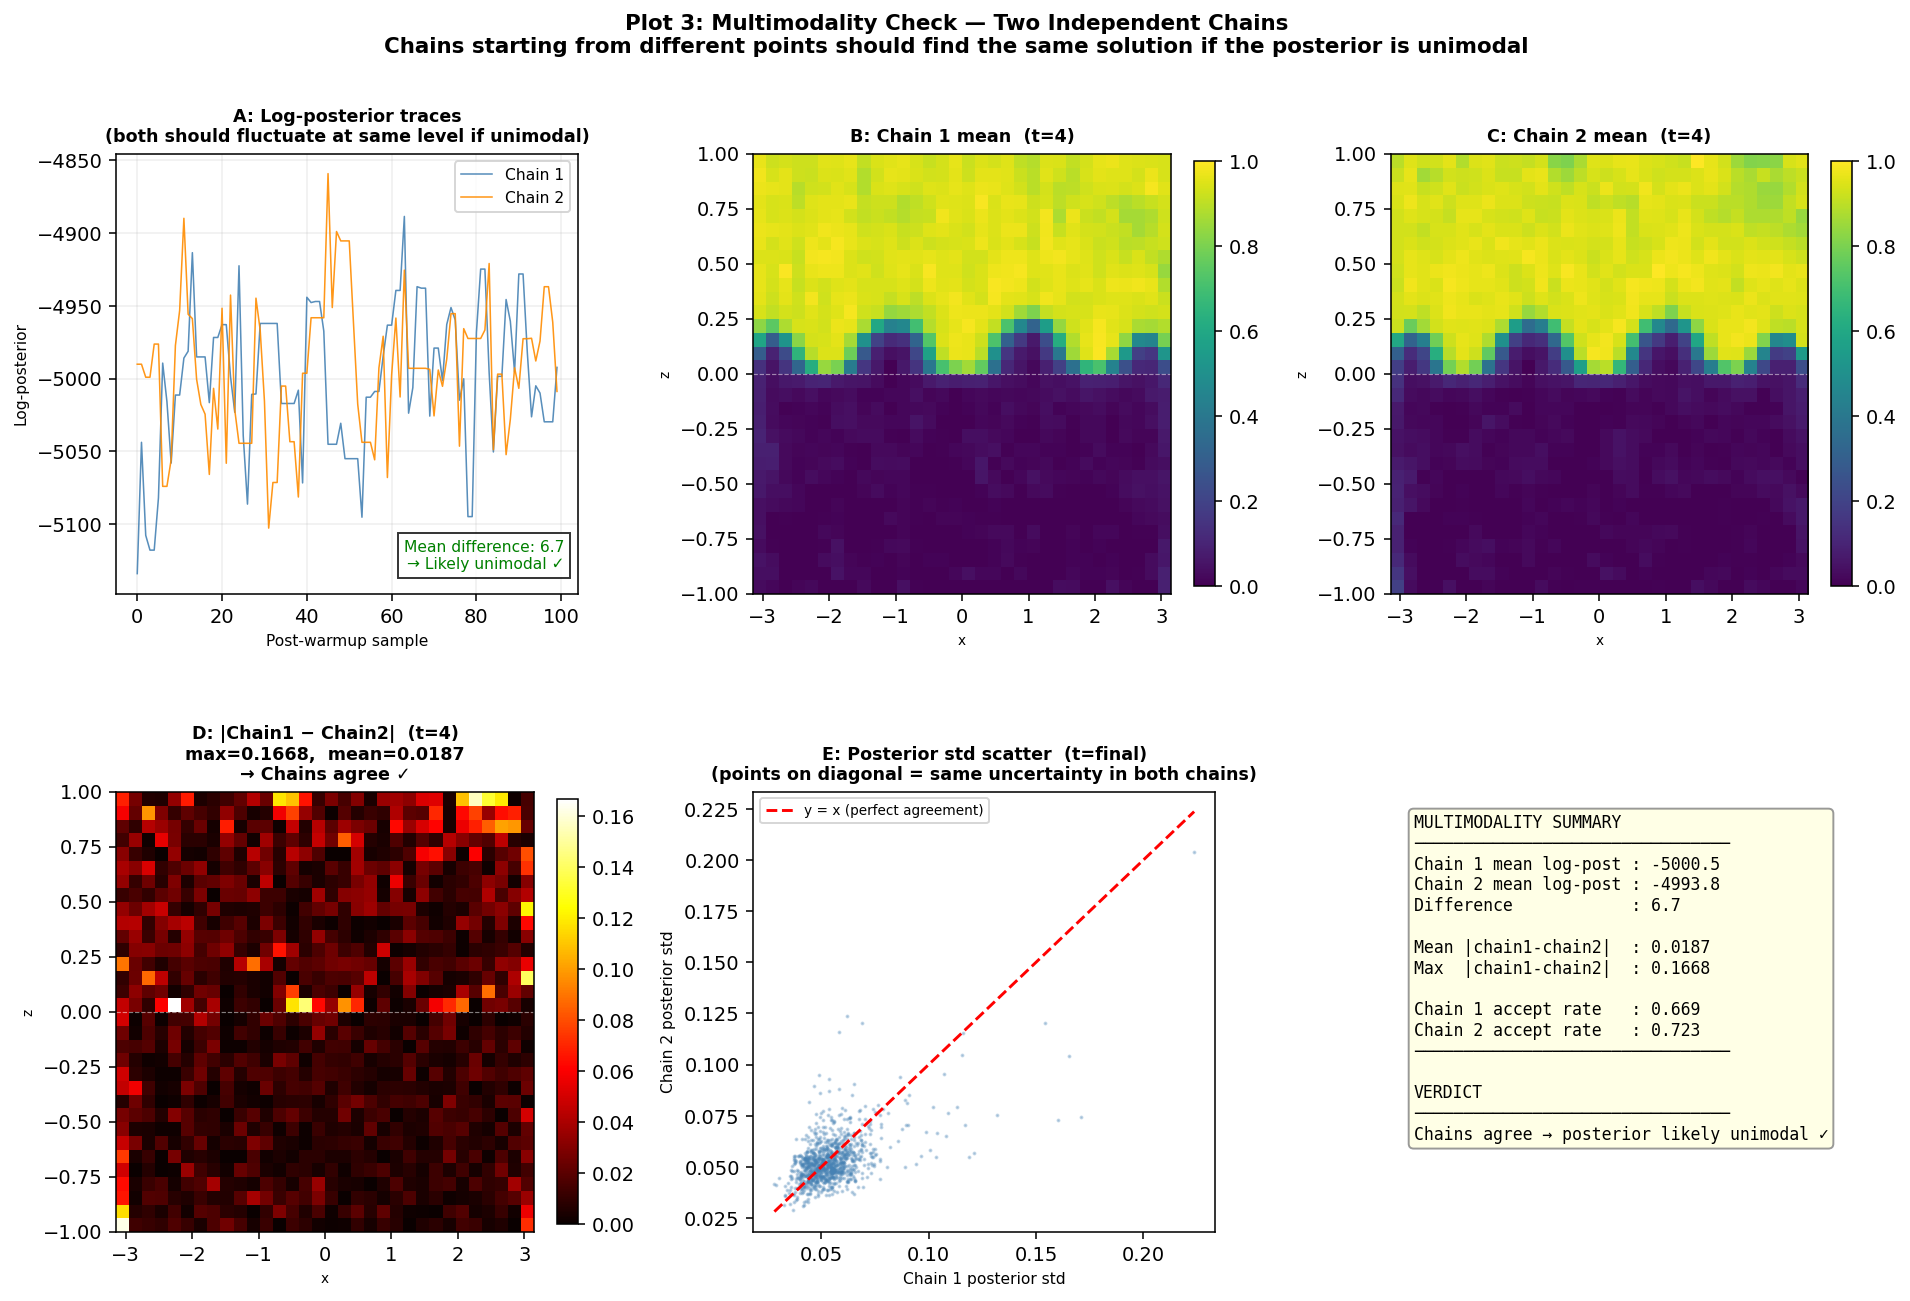
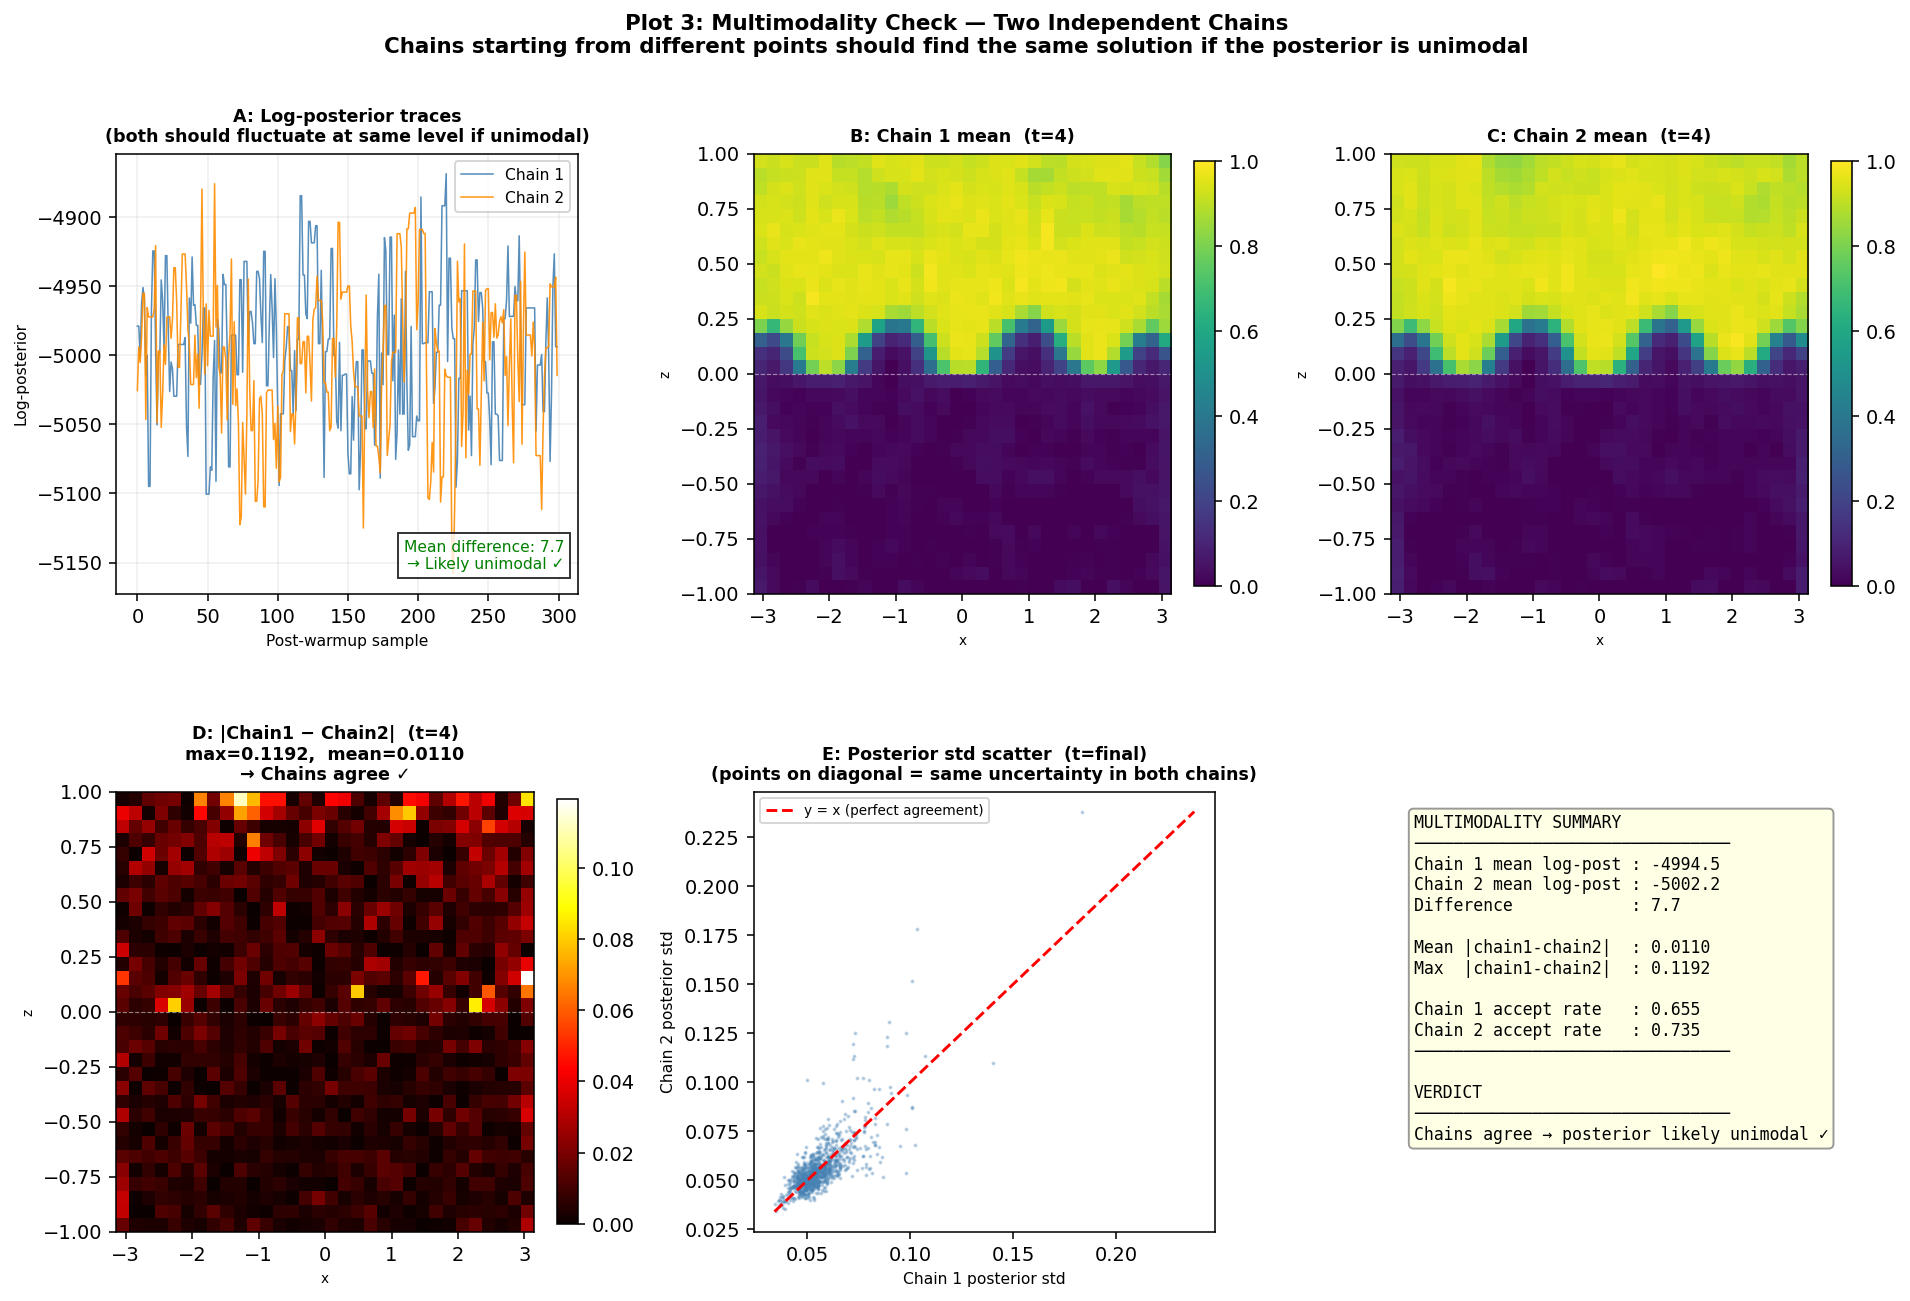
Updated output diagrams

diff --git a/WB_files/hmc_diagnostics.py b/WB_files/hmc_diagnostics.py
@@ -74,8 +74,8 @@ print(f"Test image min: {test_image.min():.6f}")
 # =============================================================================
 
 N_FRAMES   = 4       # matches your main run (3 frames total)
-N_SAMPLES  = 100
-N_WARMUP   = 30    # enough warmup for tanh initialisation
+N_SAMPLES  = 300
+N_WARMUP   = 100    # enough warmup for tanh initialisation
 MIN_STEP   = 0.002
 MAX_STEP   = 0.007
 MIN_TRAJ   = 10
